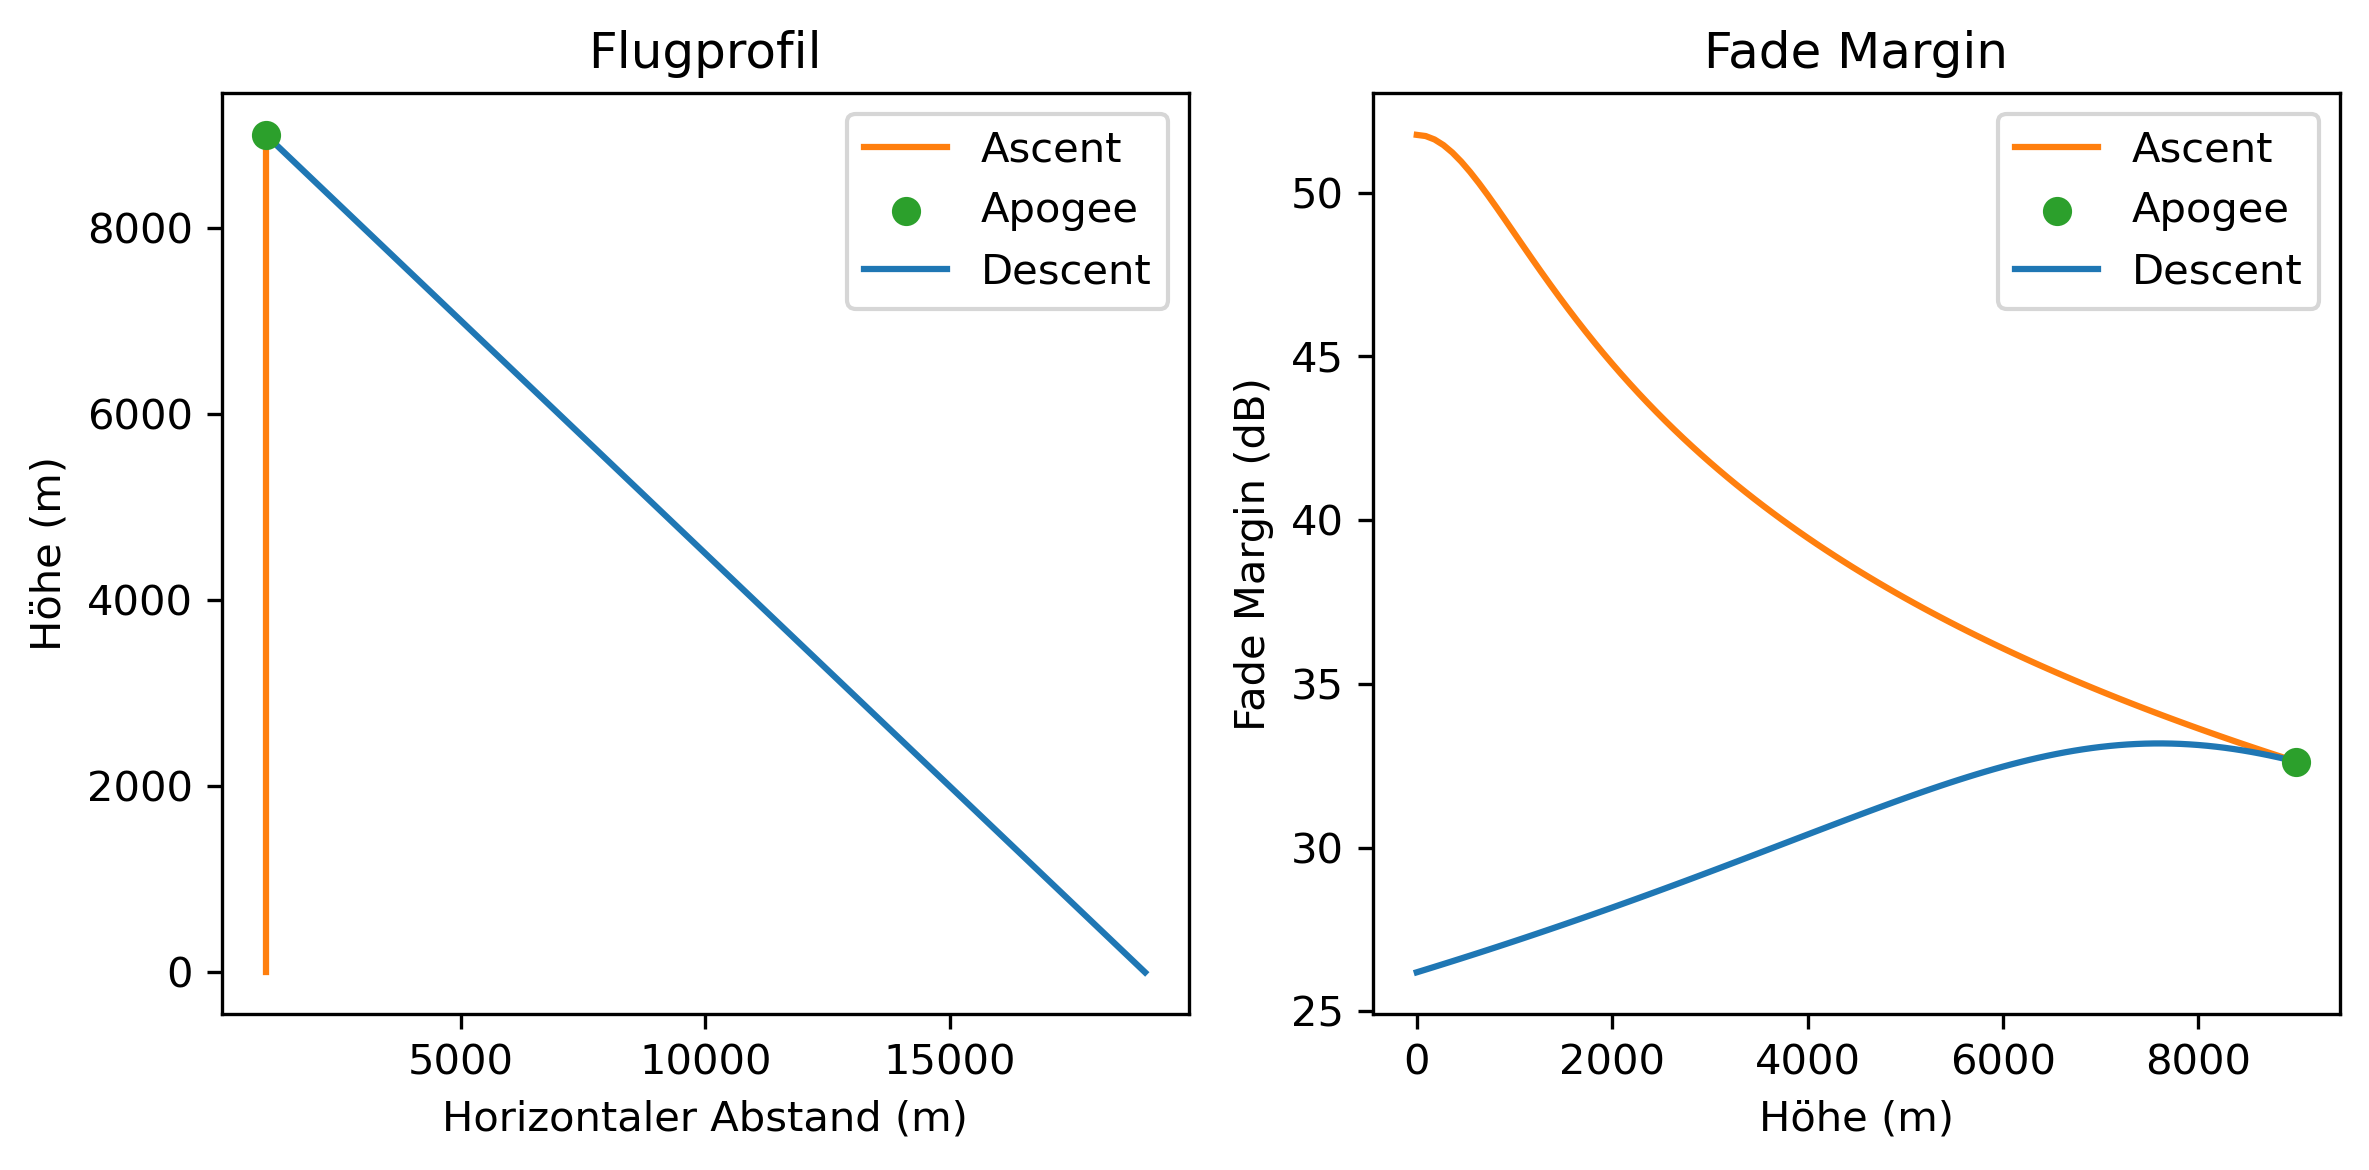
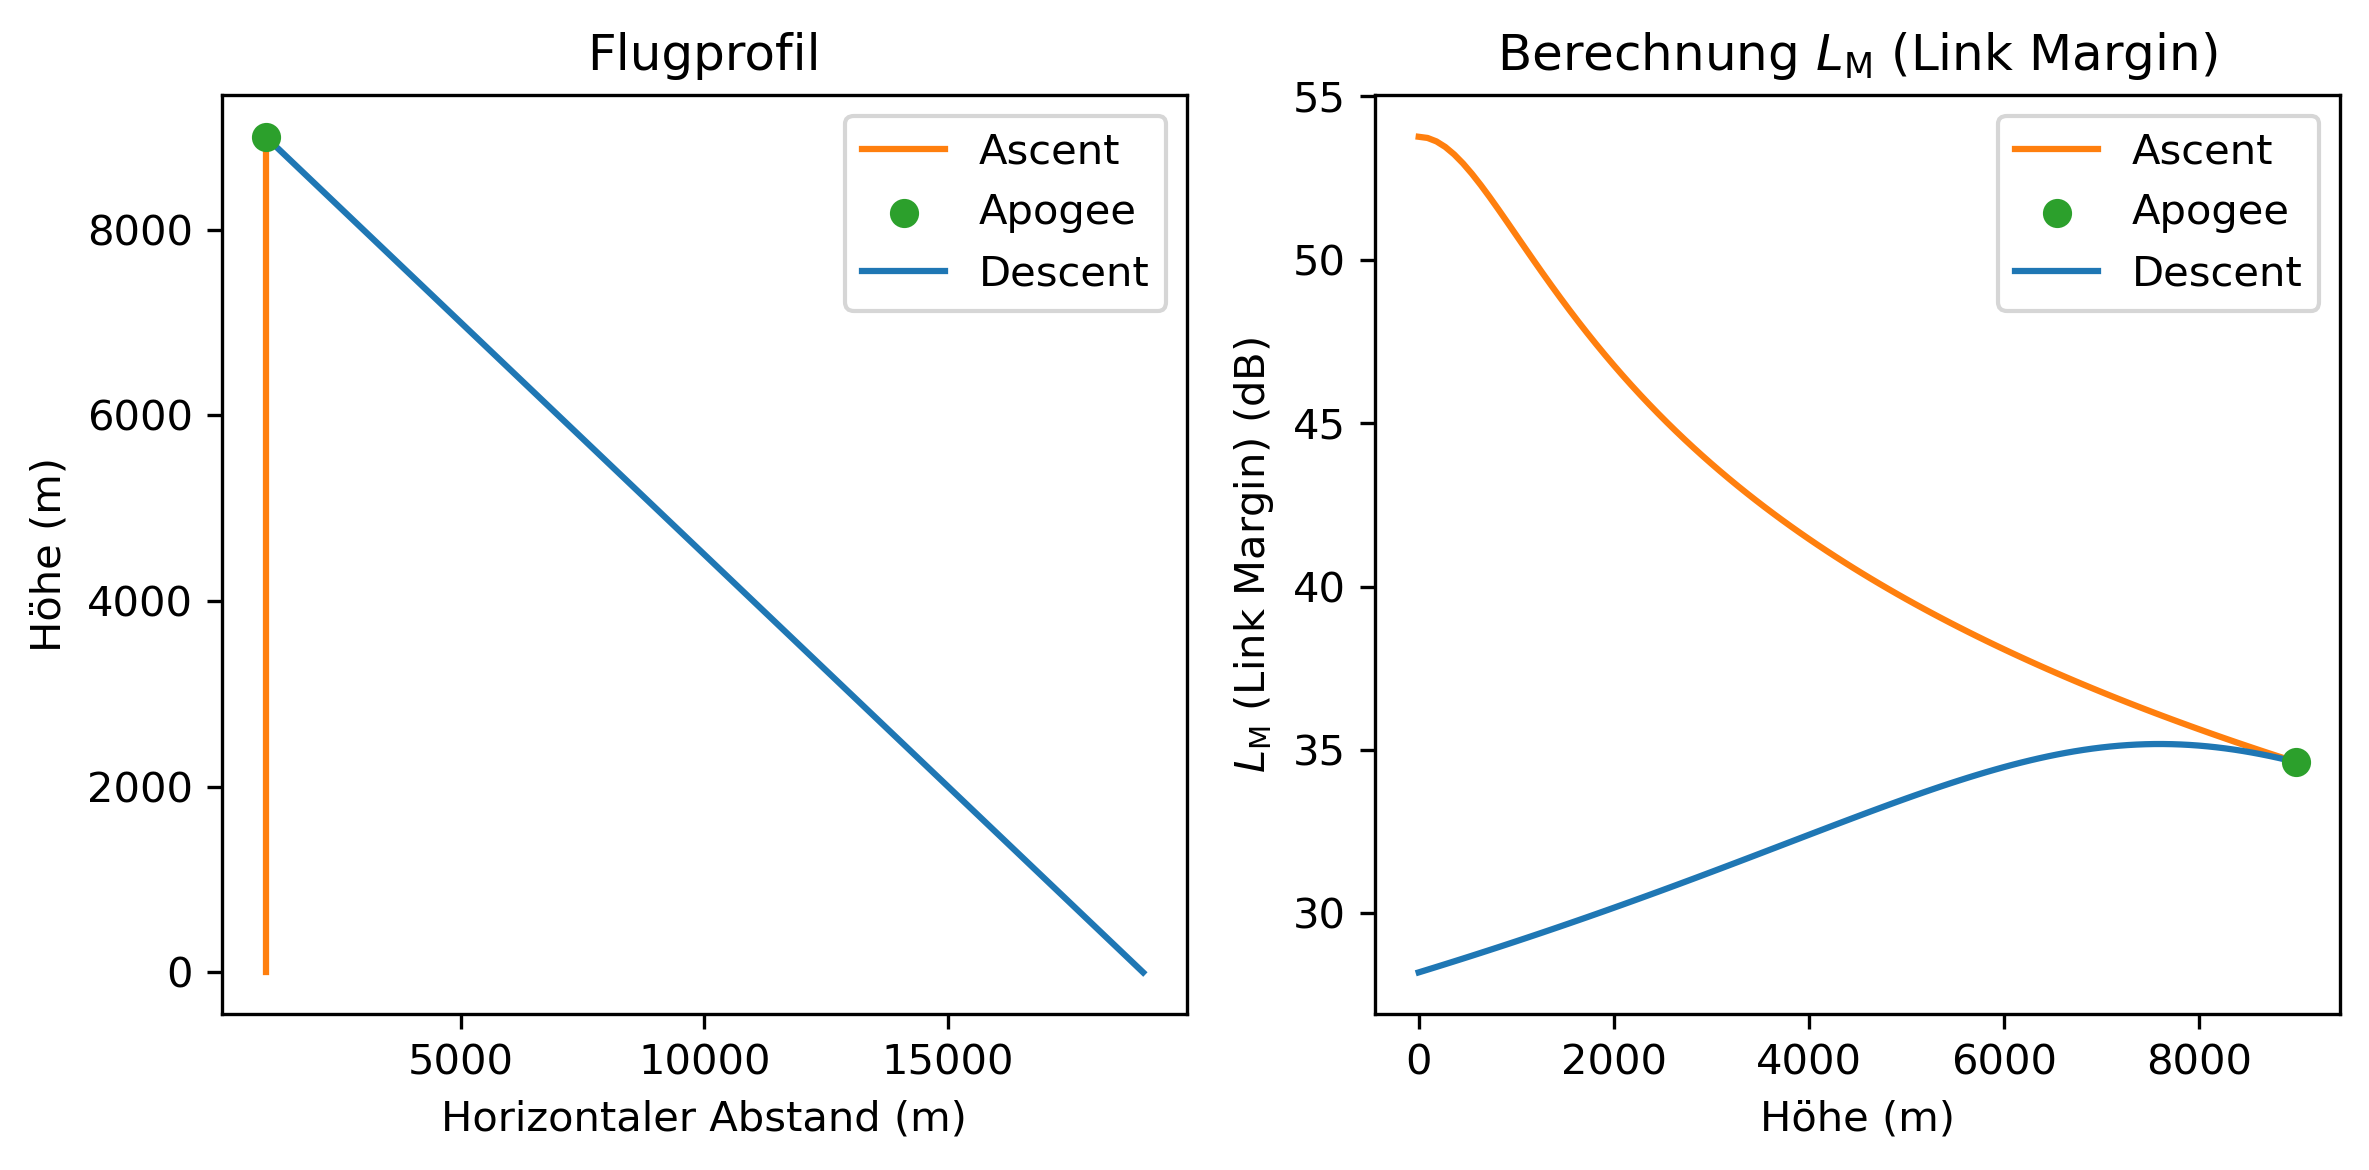
update linkbudget beispiel

diff --git a/docs/linkbudget_beispiel.py b/docs/linkbudget_beispiel.py
@@ -1,25 +1,31 @@
 import matplotlib.pyplot as plt
 import numpy as np
 
-f = 869.5e+6
+# Verbesserungen an der Berechnung:
+# - Fundierte Abschätzung L_TX und L_RX
+# - Festlegung auf Gewinn der Empfängerantenne
+# - Einbeziehung des realen Gewinns der Senderantenne
+# - Realistisches Höhenprofil
 
-P_TX = 27
-G_TX = 0
-P_RX = -118
-G_RX = 10
+f = 869.5e+6                # 869.5 MHz
 
-L_TX = 3
-L_RX = 3
-L_M = 6
+P_TX = 27                   # Datenblatt RC1780HP-RC232
+G_TX = 0                    # QFH-Antenne (tatsächlicher Gewinn ungleich 0 und abhängig vom Winkel)
+L_TX = 3                    # Abschätzung
+
+P_RX = -114                 # Datenblatt RC1780HP-RC232, alternativ: P_RX = -118
+G_RX = 10                   # Helixantenne, erste Abschätzung
+L_RX = 3                    # Abschätzung
 
 displacement = np.append(np.linspace(1000, 1000, 100), np.linspace(1000, 19000, 100))       # Horizontaler Abstand
 height = np.append(np.linspace(0, 9000, 100), np.linspace(9000, 0, 100))                    # Vertikaler Abstand
 distance = np.sqrt(height**2 + displacement**2)                                             # Abstand
 
-L_FS = 20 * np.log10((4 * np.pi * distance * f)/(2.998e+8))
-fade_margin = P_TX - P_RX + G_TX + G_RX - L_FS - L_TX - L_RX - L_M
+L_FS = 20 * np.log10((4 * np.pi * distance * f)/(2.998e+8))                                 # Freiraumdämpfung
 
-print('\nMinimale Fade Margin während des Flugprofils: ' + str(np.min(fade_margin)) + ' dB')
+L_M = P_TX - P_RX + G_TX + G_RX - L_FS - L_TX - L_RX                                        # Link Margin
+
+print('\nMinimale Link Margin während des Flugprofils: ' + str(np.min(L_M)) + ' dB')
 
 # Graphische Darstellung
 
@@ -35,14 +41,14 @@ plt.ylabel('Höhe (m)')
 plt.legend()
 
 plt.subplot(1, 2, 2)
-plt.plot(height[:100], fade_margin[:100], c = 'tab:orange', label = 'Ascent')
-plt.scatter(height[100], fade_margin[100], c = 'tab:green', zorder = 3, label = 'Apogee')
-plt.plot(height[100:], fade_margin[100:], c = 'tab:blue', label = 'Descent')
-plt.title('Fade Margin')
+plt.plot(height[:100], L_M[:100], c = 'tab:orange', label = 'Ascent')
+plt.scatter(height[100], L_M[100], c = 'tab:green', zorder = 3, label = 'Apogee')
+plt.plot(height[100:], L_M[100:], c = 'tab:blue', label = 'Descent')
+plt.title('Berechnung $L_\mathrm{M}$ (Link Margin)')
 plt.xlabel('Höhe (m)')
-plt.ylabel('Fade Margin (dB)')
+plt.ylabel('$L_\mathrm{M}$ (Link Margin) (dB)')
 plt.legend()
 
 plt.tight_layout()
 
-plt.savefig('linkbudget_beispiel.png', bbox_inches = 'tight')
+# plt.savefig('linkbudget_beispiel.png', bbox_inches = 'tight')
